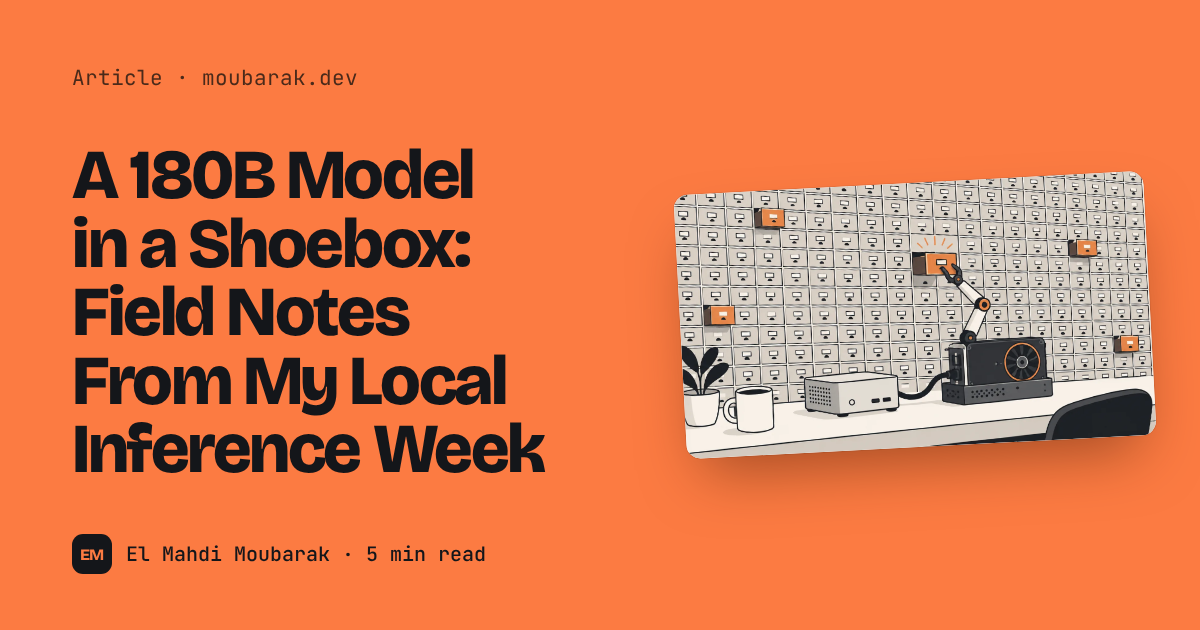
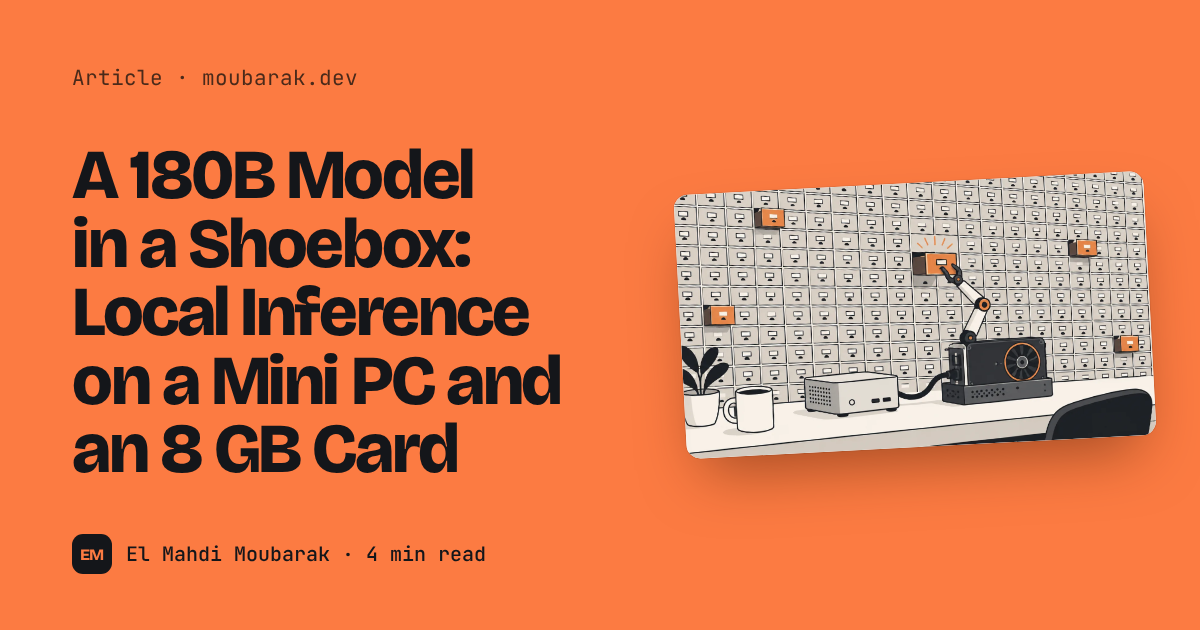
Blog: shoebox post rewritten around Strata's speeds (table up front, link to strata-flash-next-egpu), failures section and iGPU meme removed

Changed region(s): [[0.0617, 0.4524, 0.4933, 0.754]]

diff --git a/src/content/blog/a-180b-model-in-a-shoebox.md b/src/content/blog/a-180b-model-in-a-shoebox.md
@@ -1,71 +1,74 @@
 ---
-title: "A 180B Model in a Shoebox: Field Notes From My Local Inference Week"
-description: "A mini PC, a 2020 gaming card on a cable and a 180-billion-parameter model. What it ran at, what it crashed, and why local inference took a real step up this year."
+title: "A 180B Model in a Shoebox: Local Inference on a Mini PC and an 8 GB Card"
+description: "Qwen3.8-Flash-Next, 180B parameters, running with Strata on a mini PC and an RTX 3060 Ti 8 GB over OCuLink: about 390 tokens per second reading, 55 writing. The numbers, and how they got there."
 pubDate: 2026-10-15
 tags: ["AI", "Local inference", "Satire", "Hardware"]
 cover: "/blog/a-180b-model-in-a-shoebox.webp"
 coverAlt: "A tiny mini PC and an external graphics card connected by one cable, feeding from a wall of thousands of small drawers that reaches the ceiling."
 tldr:
-  - "A 180B mixture-of-experts model now writes at 55 tokens per second on a mini PC with an 8 GB card plugged in over a cable."
-  - "Most of the gains came from software released this year, and from replacing one cable."
-  - "Local inference moved a lot in 2026, and the open pull requests say it isn't done."
+  - "A 180B model reads prompts at about 390 tokens per second and writes at 50-57 tokens per second on a mini PC with an 8 GB card."
+  - "The engine is Strata; the gains came from its calibration, two updates and a better cable."
+  - "Full config, dated benchmarks and reproduce scripts: github.com/emoubarak/strata-flash-next-egpu."
 ---
 
-Every year someone announces that you can run a frontier-class model at home. Every year "at home" turns out to mean four GPUs, a 1,600 W power supply and a spouse who no longer asks questions. This year I tried it on the hardware I actually own: a Minisforum mini PC the size of a shoebox, 64 GB of RAM, and an RTX 3060 Ti with **8 GB of VRAM**, sitting outside the case in an eGPU dock and talking to the PC through a single OCuLink cable.
+Every year someone announces that you can run a frontier-class model at home. Every year "at home" turns out to mean four GPUs, a 1,600 W power supply and a spouse who no longer asks questions. So here is the version for people who own normal hardware.
 
-The model: **Qwen3.8-Flash-Next**, 180 billion parameters, compressed to 2 bits. The engine: **Strata**, an open-source runtime built for exactly this kind of bad idea.
+**The machine:** a Minisforum mini PC the size of a shoebox (Ryzen 7 8845HS, 64 GB of RAM) and an RTX 3060 Ti with **8 GB of VRAM**, sitting outside the case in an eGPU dock, connected by one OCuLink cable (PCIe Gen 4 x4).
 
-## The trick: you only need 6 billion of them at a time
+**The model:** Qwen3.8-Flash-Next, **180 billion parameters**, 2-bit, run with [Strata](https://github.com/Niko1221/Strata).
 
-A mixture-of-experts model is a committee of **24,576 small specialists**, and each token only consults 10 of them. About 6B parameters do the work for any given word. The rest wait in RAM like interns hoping to be useful.
+**The speed:**
 
-My 8 GB card holds roughly **800 of those 24,576 experts**. Strata keeps the most popular ones on the GPU, lets the CPU compute the others, and streams experts over the cable when that's cheaper. In other words, the whole performance story of this machine is a logistics problem.
+| Test | Reading the prompt | Writing |
+|---|---:|---:|
+| Short chat (a poem) | instant | **52-57 tokens/s** |
+| Long document, 7,900 tokens | **~390 tokens/s** (about 20 s) | **about 50 tokens/s** |
+| Rewriting code, 930 tokens | ~210 tokens/s | **82 tokens/s** |
 
-## Day one: 20 tokens per second and a haunted cable
+For comparison, a person reads at roughly 5 tokens per second. The model writes about ten times faster than you can read it, and gets through a 12-page document in the time it takes you to find your glasses.
 
-First run: **19 to 23 tokens per second** when writing, and **85 tokens per second** when reading a prompt. A 7,900-token document took a minute and a half to read. Usable for chat, painful for anything agentic.
+Everything is documented, with the exact config, dated benchmark files and the scripts to reproduce it on your own machine: **[emoubarak/strata-flash-next-egpu](https://github.com/emoubarak/strata-flash-next-egpu)**.
 
-The cable was the problem. The OCuLink link kept collecting errors and freezing the PC, so I had capped it to PCIe Gen 3. Reading a long prompt means moving most of the experts across that link, again and again, at about 1 GB/s.
+## Why 180B fits on an 8 GB card
+
+It doesn't, and it doesn't need to. Qwen3.8-Flash-Next is a mixture-of-experts model: a committee of **24,576 small specialists**, and each token only consults 10 of them. About 6B parameters do the work for any given word. The rest wait in RAM like interns hoping to be useful.
+
+The 8 GB card holds roughly **800 of those experts**. Strata keeps the most used ones on the GPU, lets the CPU compute the others, and adapts the cache as you talk to it. The whole performance story is logistics: the right expert in the right place at the right time. Strata also predicts several tokens ahead with a small draft head, and on code rewrites 97% of those guesses are right, which is where the 82 tokens per second come from.
+
+## How it got there: one week, three steps
+
+| Step | Reading | Writing |
+|---|---:|---:|
+| Day one, default settings, link limited to PCIe Gen 3 | 85 tokens/s | 19-23 tokens/s |
+| After Strata's calibration | 85 tokens/s | 37-55 tokens/s |
+| New cable, PCIe Gen 4 | ~390 tokens/s | 51-62 tokens/s |
+| Today, Strata 0.1.44.1 | ~390 tokens/s | 52-57 tokens/s |
+
+1. **Calibration.** Strata ships a step that tries settings on your machine and keeps the fastest. One command, about 35 minutes, and writing went from ~21 to **37-55 tokens per second**. I skipped it the first day, because nobody reads the README on day one.
+2. **The cable.** Reading a long prompt moves experts across the eGPU link, so the link sets the reading speed. With a cable running stable at Gen 4 (6.7 GB/s measured), reading went from 85 to **about 390 tokens per second**, ×4.7.
+3. **Updates.** Two Strata releases in one week. Writing settled at 52-57 tokens per second.
 
 ![Ancient Aliens meme: "I'm not saying it was the cable. But it was the cable."](/blog/memes/a-180b-model-in-a-shoebox-1.webp)
 
-Meanwhile the BIOS was quietly reserving **16 GB of my RAM** for the integrated GPU. I found the setting's address in the firmware, wrote the UEFI variable by hand from Linux, rebooted twice and verified the value. The firmware ignored it completely. What worked in the end was rebooting into the setup screen and clicking the option with a mouse, like a person from 2009.
-
-## The upgrades, ranked by how stupid they feel
-
-1. **Calibration.** Strata ships a calibration step that tries settings and keeps the fastest. One command took writing from ~21 to **37-55 tokens per second**. I hadn't run it in the first week because I don't read READMEs either.
-2. **A new cable.** One replacement OCuLink cable later, the link ran stable at PCIe Gen 4: prompt reading went from 85 to **about 390 tokens per second**. The same 7,900-token prompt now reads in 20 seconds.
-3. **Updates.** Two engine releases in one week. Today's numbers: **54-57 tokens per second** writing, **389** reading.
-
-For scale: in May, on the same card, a 35B model wrote at 37 tokens per second. Now a model five times larger writes faster.
+For scale: in May, on the same card, a 35B model wrote at 37 tokens per second. A model five times larger now writes faster.
 
 ![Leonardo DiCaprio Cheers meme: "When the 180B model writes faster than the 35B did in May."](/blog/memes/a-180b-model-in-a-shoebox-2.webp)
 
-## Is it actually smart, or just big?
+## Fast, and still smart at 2 bits
 
-Fair question, because a 2-bit model is a model with its memory partially sanded off. On 20 hard math problems (MATH-500, level 5) it scored **16/20**, against 13/20 for the 35B model I was using before. On three real agent tasks run through the pi coding agent with a browser, it finished **3 out of 3**; the 35B finished 2 and, on the third, invented commands that don't exist. As a decision engine for my [browser agent](/blog/browser-agents-at-work-jev), it now answers in about 5 seconds per decision, four times faster than the week before.
+Compressing a model to 2 bits sounds like sanding off half its memory, so I checked. On the 20 hardest MATH-500 problems it scores **16/20**, against 13/20 for the 35B model I was using before. Driving my [browser agent](/blog/browser-agents-at-work-jev), it takes a decision in about 5 seconds and finished 3 out of 3 real tasks.
 
-Nobody will mistake it for Claude: a first Claude Code turn with 31,000 tokens of context still takes about two minutes. It is, however, a model that runs offline, on my desk, without a subscription and without asking anyone for permission.
+## What you need to try it
 
-## What didn't work, for balance and humility
+- **RAM:** 64 GB. Strata keeps about 41-45 GB of experts in memory.
+- **GPU:** an 8 GB NVIDIA card is enough. Inside the case or on an eGPU; the faster the link, the faster it reads.
+- **Disk:** about 66 GB for the model files.
+- **Time:** one download, one build, one calibration. The repo lists the commands in order.
 
-- **The integrated GPU.** Strata can also run on the Radeon 780M inside the mini PC. The latest version made it 50% faster at writing (10 to 15 tokens per second), then hit a long prompt, hung the GPU and took the whole desktop down with it. Third crash. The integrated GPU is now retired from this hobby.
-- **DFlash**, the new diffusion-based speculative decoding everyone was excited about. On this setup it made the 35B model slower (25 vs 37 tokens per second). It shines when the base model is slow; mine wasn't slow enough.
-- **Community patches.** Strata gets a ridiculous number of pull requests: around **60 opened in a single day**. I built and benchmarked the three that looked relevant. One made writing slightly slower, one switched itself off because my experts already live in RAM, and one refused my 2-bit format. That's how open source testing goes: most patches are for someone else's machine.
+## Local inference had a real year
 
-![Disaster Girl meme: "One quick iGPU benchmark. The desktop it was also displaying."](/blog/memes/a-180b-model-in-a-shoebox-3.webp)
+A year ago, "a local model on a gaming card" meant a 7B model that apologized a lot. In 2026, several things landed at the same time: mixture-of-experts models where only 6B of 180B parameters work per token, 2-bit quantization that still scores well, draft heads that predict several tokens at once, and engines like Strata that treat RAM, VRAM and PCIe as one budget.
 
-## Why this year was different
+And it keeps moving. Strata ships a release every few days and gets dozens of pull requests from people with stranger hardware than mine. The software is improving faster than the hardware I could buy to replace it.
 
-A year ago, "local LLM on a consumer card" meant a 7B model that apologized a lot. What changed in 2026 is a pile of improvements landing at the same time:
-
-- **Mixture-of-experts models with tiny active sizes.** 180B of knowledge, 6B of work per token.
-- **Aggressive quantization that holds up.** 2-bit formats that still score well on math and agent tasks.
-- **Speculative decoding that pays.** Models now ship with multi-token prediction heads, and DFlash landed in llama.cpp in June.
-- **Engines that treat RAM, VRAM and PCIe as one budget.** Strata's whole design is expert logistics, and it shows.
-
-## And it isn't finished
-
-The bottleneck on my machine is now a cable with four PCIe lanes. Every new release moves a few more experts to the right place at the right time, and every day brings another batch of pull requests from people with stranger hardware than mine. The software is improving faster than the hardware I could buy to replace it.
-
-So my advice, if you're about to spend €3,000 on a GPU to run models locally: run the calibration first. Then replace your cable. Then wait a month. The people writing the engines are doing the rest for free.
+So if you have a similar setup and a 3,000 euro GPU in your shopping cart: try this first. The config is [on GitHub](https://github.com/emoubarak/strata-flash-next-egpu).
